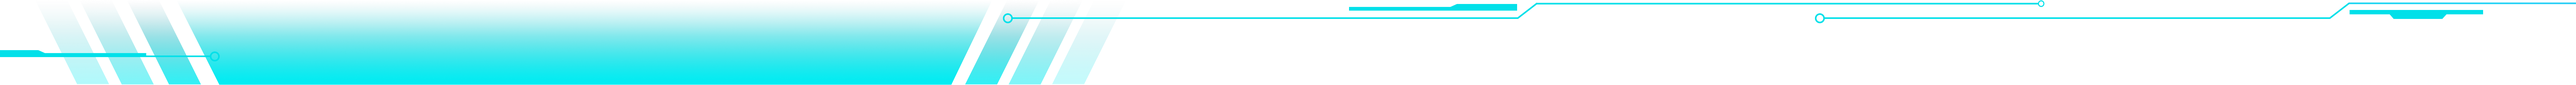
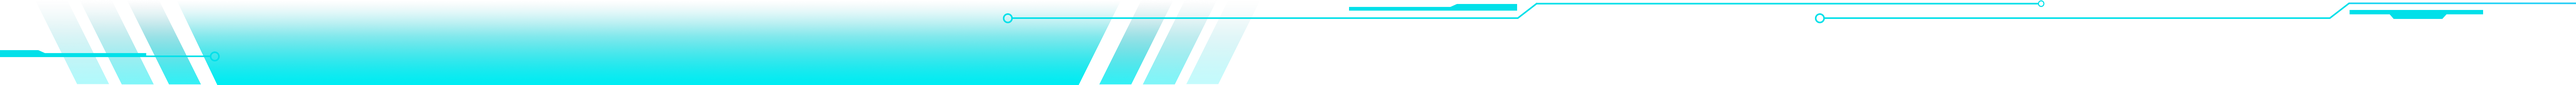
播发和ppt优化完成，更新了背景图和menu的图，重设了地球的区域颜色

Changed region(s): [[0.0938, 0.125, 0.5, 1.0]]

diff --git a/src/components/PlanPage.vue b/src/components/PlanPage.vue
@@ -5,6 +5,7 @@ const emits = defineEmits([
   "playInit",
   "drawCityBounds",
   "drawDistrictBounds",
+  "removeDistrictBounds",
   "drawGroup",
   "removeGroup",
   "drawIcon",
@@ -23,8 +24,13 @@ let plan2035 = ref(false);
 let beltElectronic = ref(false);
 let beltHealth = ref(false);
 let beltIntellect = ref(false);
-let time = ref(3000);
+let time = ref(1000);
 let playStatus = ref(false);
+let stepOne = null;
+let stepTwo = null;
+let stepThree = null;
+let stepFour = null;
+let stepFive = null;
 
 const initFrame = () => {
   plan.value = false;
@@ -38,58 +44,20 @@ const initFrame = () => {
   axis.value = false;
 };
 
-const play1 = () => {
-  emits("playInit");
-  initFrame();
-  playStatus.value = true;
-  // 第一页 要进一步讨论
-  addOne();
-  setTimeout(() => {
-    // 第二页
-    emits("drawDistrictBounds");
-    setTimeout(() => {
-      emits("setZoom", 9);
-      setTimeout(() => {
-        space.value = true;
-        plan.value = false;
-        setTimeout(() => {
-          axis.value = true;
-          setTimeout(() => {
-            axis.value = false;
-            beltElectronic.value = true;
-            beltHealth.value = true;
-            beltIntellect.value = true;
-            strategy.value = true;
-            emits("drawGroup");
-            emits("drawIcon");
-            setTimeout(() => {
-              beltElectronic.value = false;
-              beltHealth.value = false;
-              beltIntellect.value = false;
-              space.value = false;
-              strategy.value = false;
-              plan2025.value = true;
-              plan2035.value = true;
-            }, time.value);
-          }, time.value);
-        }, 1000);
-      }, 2000);
-    }, time.value);
-  }, 3000);
-};
-
-const play = () => {
-  addOne();
-};
-
 const backward = () => {
-  console.log(page.value);
+  clearTimeout(stepOne);
+  clearTimeout(stepTwo);
+  clearTimeout(stepThree);
+  clearTimeout(stepFour);
+  playStatus.value = false;
   switch (page.value) {
     case 0:
+      page.value = 1;
       ElMessage({
-        message: '已经是最前一页',
-        type: 'warning',
-      })
+        message: "已经是最前一页",
+        type: "warning",
+      });
+      clearAll();
       break;
     case 1:
       clearAll();
@@ -113,8 +81,12 @@ const backward = () => {
 };
 
 const forward = () => {
+  clearTimeout(stepOne);
+  clearTimeout(stepTwo);
+  clearTimeout(stepThree);
+  clearTimeout(stepFour);
+  playStatus.value = false;
   page.value++;
-  console.log(page.value);
   switch (page.value) {
     case 1:
       forwardOne();
@@ -132,11 +104,11 @@ const forward = () => {
       forwardFive();
       break;
     case 6:
-      page.value = 5
+      page.value = 5;
       ElMessage({
-        message: '已经是最后一页',
-        type: 'error',
-      })
+        message: "已经是最后一页",
+        type: "error",
+      });
       break;
     default:
       console.log("禁止");
@@ -147,7 +119,7 @@ const forward = () => {
 const clearAll = () => {
   emits("playInit");
   initFrame();
-}
+};
 
 // 第一页
 const forwardOne = () => {
@@ -159,7 +131,7 @@ const forwardOne = () => {
 };
 
 const backwardOne = () => {
-  // emits("removeDistrictBounds"); 2023.1.4
+  emits("removeDistrictBounds");
   emits("setZoom", 8);
 };
 
@@ -220,41 +192,27 @@ const forwardFive = () => {
   plan2035.value = true;
 };
 
-// 第二页
-const pageTwo = (fn) => {
-  setTimeout(() => {
-    // amap.value.drawDistrictBounds();
-    fn();
+const play = () => {
+  emits("playInit");
+  initFrame();
+  playStatus.value = true;
+  forwardOne();
+  stepOne = setTimeout(() => {
+    forwardTwo();
+    console.log(1);
+    stepTwo = setTimeout(() => {
+      forwardThree();
+      console.log(2);
+      stepThree = setTimeout(() => {
+        forwardFour();
+        console.log(3);
+        stepFour = setTimeout(() => {
+          forwardFive();
+          console.log(4);
+        }, 3000);
+      }, 3000);
+    }, 3000);
   }, 3000);
-};
-
-const stopPageTwo = () => {
-  clearTimeout(pageTwo);
-};
-
-// 第三页
-const pageThree = (fn) => {
-  setTimeout(() => {
-    amap.value.setZoom(9);
-    fn();
-  }, 3000);
-};
-
-const stopPageThree = () => {
-  clearTimeout(pageThree);
-};
-
-// 第四页
-const pageFour = (fn) => {
-  setTimeout(() => {
-    space.value = true;
-    plan.value = false;
-    fn();
-  }, 3000);
-};
-
-const stopPageFour = () => {
-  clearTimeout(pageFour);
 };
 </script>
 <template>
@@ -439,7 +397,7 @@ const stopPageFour = () => {
   box-sizing: border-box;
   outline: 0;
   transition: 0.1s;
-  background-color: #00e6f0;
+  /* background-color: #00e6f0; */
   opacity: 0.5;
   vertical-align: middle;
   border-radius: 4px;

diff --git a/src/components/EchartEarth.vue b/src/components/EchartEarth.vue
@@ -82,7 +82,8 @@ function renderEarth(opt, size, target, rotate) {
         color: "#43D0D6",
       },
       itemStyle: {
-        areaColor: "yellow",
+        // areaColor: "#0A82A5",
+        areaColor: "rgb(10, 50, 65)",
         borderWidth: 1, //设置外层边框
         borderColor: "#000c2d",
         //地图区域的多边形 图形样式。
@@ -95,7 +96,7 @@ function renderEarth(opt, size, target, rotate) {
           color: "green",
         },
         itemStyle: {
-          areaColor: "red",
+          areaColor: "rgb(20, 80, 130)",
         },
       },
     },
@@ -148,20 +149,20 @@ function renderEarth(opt, size, target, rotate) {
         enable: true, //是否开启
         SSAO: {
           //环境光遮蔽
-          radius: 1, //环境光遮蔽的采样半径。半径越大效果越自然
-          intensity: 1, //环境光遮蔽的强度
+          radius: 10, //环境光遮蔽的采样半径。半径越大效果越自然
+          intensity: 0.5, //环境光遮蔽的强度
           enable: true,
         },
       },
       // 增加了红色闪电的图层
-      layers: [
-        {
-          type: "blend",
-          blendTo: "emission",
-          texture: contourChart,
-          intensity: config.intensity,
-        },
-      ],
+      // layers: [
+      //   {
+      //     type: "blend",
+      //     blendTo: "emission",
+      //     texture: contourChart,
+      //     intensity: config.intensity,
+      //   },
+      // ],
       viewControl: {
         // 用于鼠标的旋转，缩放等视角控制。
         projection: "perspective", // 投影方式，默认为透视投影'perspective'，也支持设置为正交投影'orthographic'。

diff --git a/src/components/VueAmap.vue b/src/components/VueAmap.vue
@@ -72,6 +72,7 @@ const districtConf = [
 // const belts = [];
 // const axis = [];
 let mapGroup = [];
+let mapDistrict = [];
 const initMap = () => {
   amap = new AMap.Map("amap", {
     center: [114.405188,30.497573],
@@ -131,6 +132,7 @@ const drawDistrictBounds = () => {
       // 画三个区的polygon
       polygons.map((el) => {
         amap.add(el);
+        mapDistrict.push(el);
       });
       // 画东湖高新区的polygon
       // const donghugaoxing = hongshanSeg.concat(jiangxiaSeg).concat(donghugaoxingSeg.reverse())  东湖高新用第一个js的时候要用
@@ -144,8 +146,16 @@ const drawDistrictBounds = () => {
         extData: { id: '东湖高新区' },
       });
       amap.add(polygon);
+      mapDistrict.push(polygon);
     }
   );
+}
+
+const removeDistrictBounds = () => {
+  mapDistrict.map(el => {
+    amap.remove(el);
+  })
+  mapDistrict = []
 }
 
 // 只画东湖高新区的边界
@@ -253,7 +263,7 @@ const removeIcon = () => {
   amap.remove(donghugaoxingMarker)
 }
 
-const draw4gaoixng = () => {
+const draw4gaoxing = () => {
   const icon1 = new AMap.Icon({
     size: new AMap.Size(200, 200),
     image: '/img/hangzhou.png',
@@ -761,9 +771,10 @@ const setCenter = (locat) => {
 defineExpose({
   drawCityBounds,
   drawDistrictBounds,
+  removeDistrictBounds,
   drawIcon,
   removeIcon,
-  draw4gaoixng,
+  draw4gaoxing,
   drawGroup,
   removeGroup,
   drawScatter,

diff --git a/src/views/HomePage.vue b/src/views/HomePage.vue
@@ -14,6 +14,7 @@
     @drawDistrictBounds="drawDistrictBounds"
     @drawGroup="drawGroup"
     @removeGroup="removeGroup"
+    @removeDistrictBounds="removeDistrictBounds"
     @drawIcon="drawIcon"
     @removeIcon="removeIcon"
     @setZoom="setZoom"
@@ -97,7 +98,7 @@ const showPage3 = () => {
   distributionPage.value = true;
   amapRef.value.setZoom(4.5);
   amapRef.value.setCenter([110, 33]);
-  amapRef.value.draw4gaoixng();
+  amapRef.value.draw4gaoxing();
 };
 
 const showPage4 = () => {
@@ -117,6 +118,10 @@ const drawCityBounds = () => {
 const drawDistrictBounds = () => {
   amapRef.value.drawDistrictBounds();
 };
+
+const removeDistrictBounds = () => {
+  amapRef.value.removeDistrictBounds();
+}
 
 const drawGroup = () => {
   amapRef.value.drawGroup();

diff --git a/src/views/Login.vue b/src/views/Login.vue
@@ -97,8 +97,8 @@ h1 {
   font-size: 0.286458rem /* 220/768 */;
   color: #00e6f0;
   font-weight: bold;
-  font-family: "黑体";
-  font-style: italic;
+  font-family: "微软雅黑";
+  /* font-style: italic; */
 }
 
 .login-wrapper {
